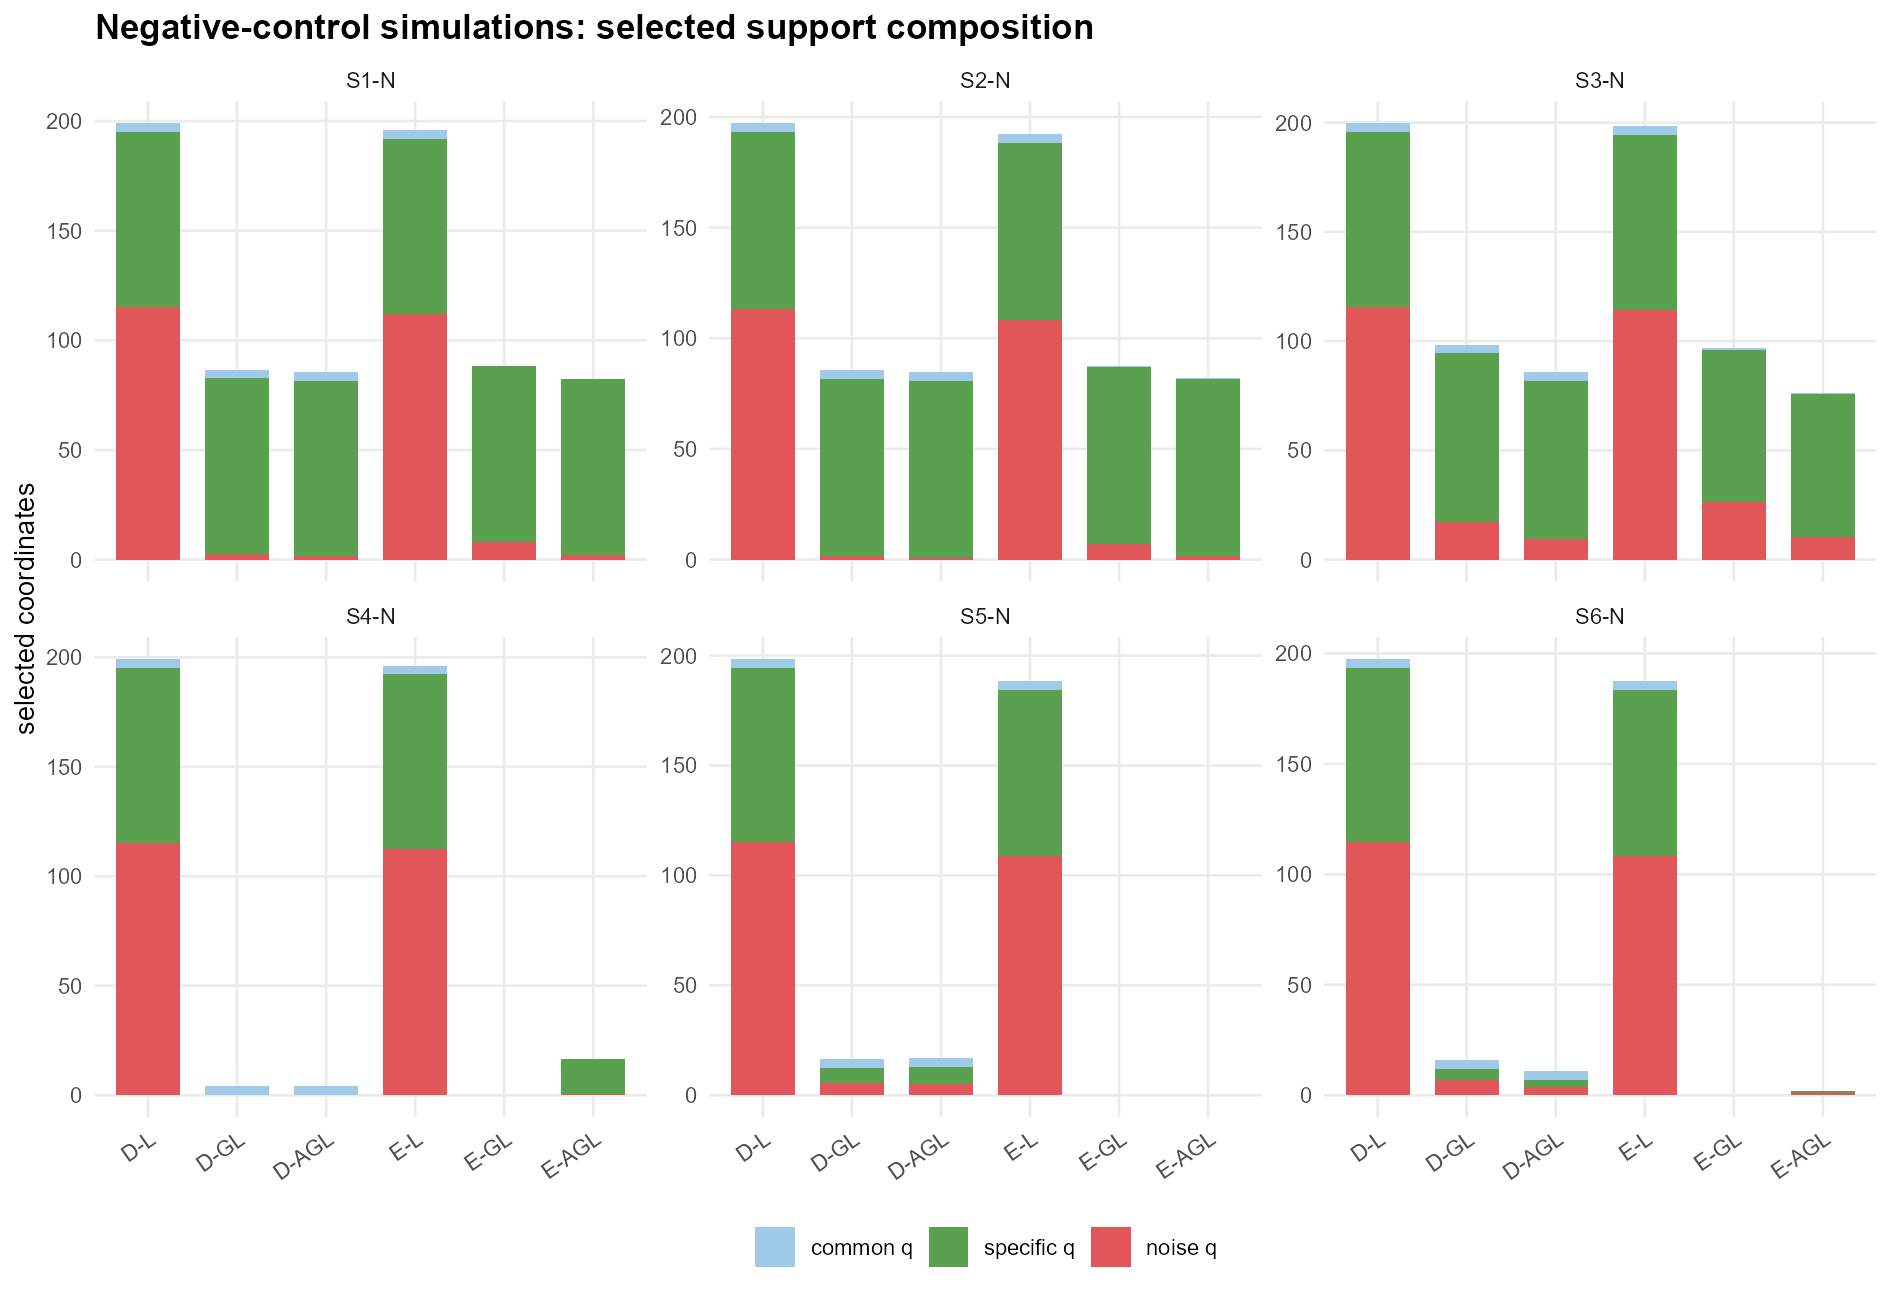
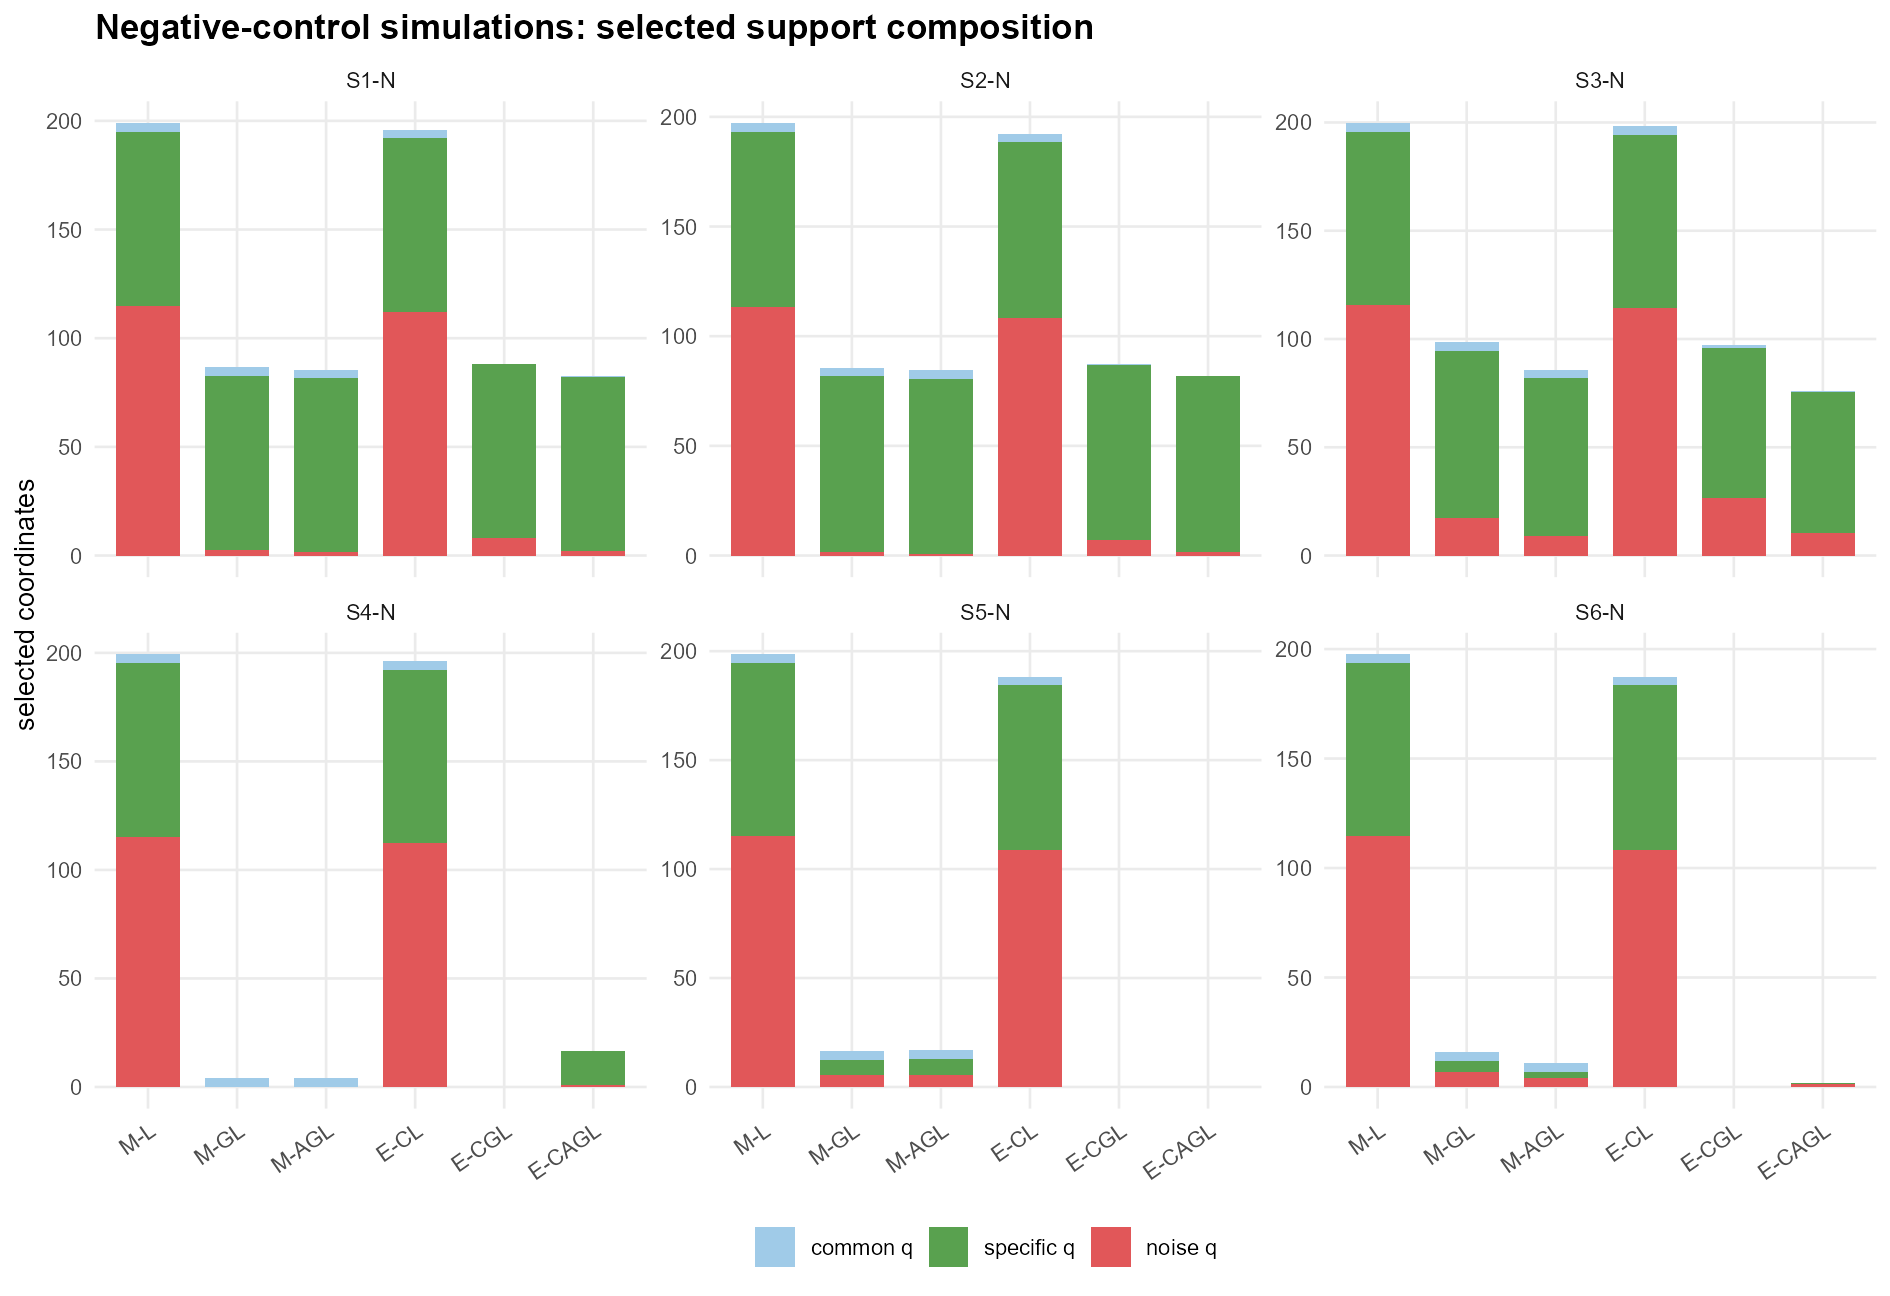
Align simulation diagnostic naming

diff --git a/docs/meetings/thesis-meeting_260708.md b/docs/meetings/thesis-meeting_260708.md
@@ -129,6 +129,19 @@ $$
 
 이 절은 S1-S6 성능 결과가 아니라, 제안 모형의 구조를 분해한 ablation 진단이다. eta 자연모수, group penalty, centered contrast의 역할을 분리해 확인한다.
 
+진단 시뮬레이션 환경:
+
+| 항목 | 설정 |
+|:---|:---|
+| 목적 | penalty target, centering, group/adaptive 효과 분해 |
+| 반복 수 | rep=20 |
+| 차원/표본/군집 수 | $d=100$, $n=1000$, $K=4$ |
+| 변수 구성 | common q=6, component-specific q=4 per component, true union q=22 |
+| specific weight | 0.5 |
+| 집중도 | $\kappa=(30,45,65,90)$ |
+| 선택 기준 | BIC |
+| 재적합 | 선택된 support에서 refit |
+
 | 비교 목적 | method | penalty / model | reps | selected q | ARI | TPR | FPR | Precision | F1 | MSE_eta | 해석 |
 |:---|:---|:---|---:|---:|---:|---:|---:|---:|---:|---:|:---|
 | $\mu$ entry-wise | M-L + refit | $\lambda_\mu\sum_{k,j}\lvert\mu_{kj}\rvert$ | 20 | 25.90 | 0.687 | 1.000 | 0.050 | 0.855 | 0.920 | 0.162 | baseline |
